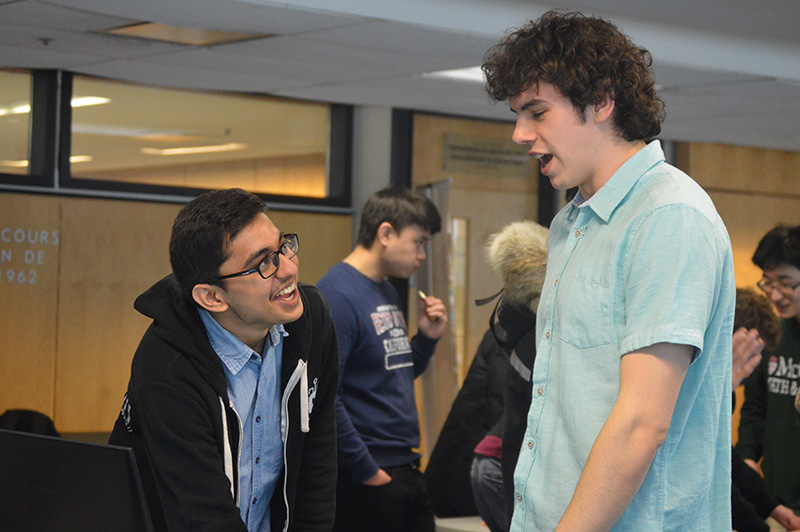
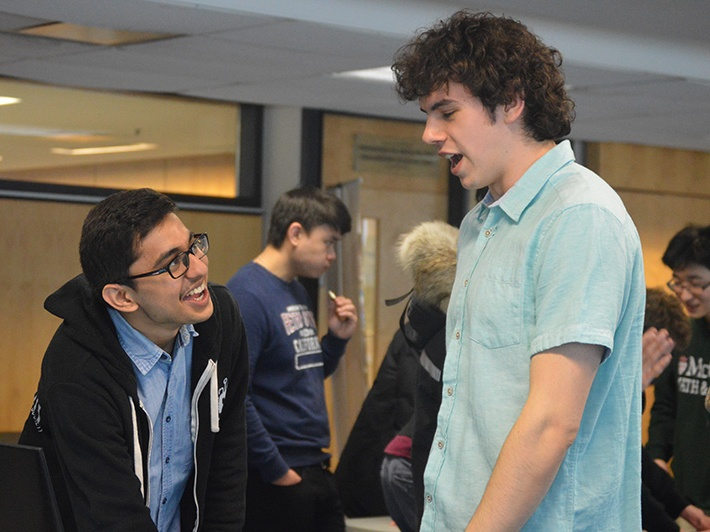
new images for MAIS202 carousel

diff --git a/pages/mais202.js b/pages/mais202.js
@@ -8,10 +8,6 @@ export default function MAIS202() {
         <>
             <div className="section">
                 <div className="flex-center">
-                    <div>
-                        <h3>ACCELERATED INTRODUCTION TO MACHINE LEARNING</h3>
-                        <p>2021-2022 Offerings: Fall 2021, Winter 2022</p>
-                    </div>
                     {/* <SubscribeButton href="https://tiny.cc/mais202-w2020-app" target="_blank">APPLY NOW!</SubscribeButton> */}
                     <Carousel
                         autoPlay
@@ -31,16 +27,17 @@ export default function MAIS202() {
                             />
                         ))}
                     </Carousel>
-                </div>
-                <div className="flex-center">
-                    {['1', '2', '3', '4'].map((number) => (
-                        <img
-                            key={number}
-                            src={`/images/mais202/stats_${number}.svg`}
-                            alt="MAIS Statistic"
-                            className={styles['stat-img']}
-                        />
-                    ))}
+
+                    <div className="flex-center">
+                        {['1', '2', '3', '4'].map((number) => (
+                            <img
+                                key={number}
+                                src={`/images/mais202/stats_${number}.svg`}
+                                alt="MAIS Statistic"
+                                className={styles['stat-img']}
+                            />
+                        ))}
+                    </div>
                 </div>
             </div>
             <div className="section">
@@ -60,8 +57,9 @@ export default function MAIS202() {
                     The MAIS 202 bootcamp is an accelerated survey course which
                     aims to teach lower-year undergraduates the fundamentals of
                     machine learning. In addition to weekly lectures and
-                    assignments, participants worked towards an individual final
-                    project which was presented at the McGill AI Project Fair.
+                    assignments, participants worked towards an individual or
+                    team final project which was presented at the McGill AI
+                    Project Fair.
                 </p>
                 <h3>Takeaways</h3>
                 <p>

diff --git a/pages/index.js b/pages/index.js
@@ -203,11 +203,11 @@ function Home() {
             </div>
 
             {/* <Sponsors /> */}
-
             <div className="section">
                 <h2>Sponsors</h2>
                 <div className={`flex-center ${styles['sponsors']}`}>
                     <div className={styles['sponsors__text']}>
+                        {/* TODO: update this writing */}
                         <p>
                             All club operations are funded by our generous
                             sponsors. Without their support, we would not be

diff --git a/styles/app.scss b/styles/app.scss
@@ -47,6 +47,8 @@ html {
 
 .section {
     padding: 40px 0 40px 0;
+    max-width: 2000px;
+    margin: auto;
     > h3,
     > p,
     > ul {
@@ -94,7 +96,7 @@ h2 {
 h3 {
     font-style: italic;
     font-size: 20pt;
-    font-weight: 600;
+    font-weight: 500;
     margin-bottom: 10px;
 }
 

diff --git a/styles/pages/mais202.module.scss b/styles/pages/mais202.module.scss
@@ -1,9 +1,7 @@
 .carousel {
-    width: 700px;
-    //     &__img {
-    //         width: 500px;
-    //     }
+    width: 600px;
 }
 .stat-img {
-    width: 200px;
+    width: 175px;
+    padding: 5px;
 }

diff --git a/pages/ourteam.js b/pages/ourteam.js
@@ -148,6 +148,7 @@ export const execData = [
 
 const Exec = () => (
     <>
+        {/* TODO: include our beach picture? */}
         <Profiles profilesData={execData} />
     </>
 );
